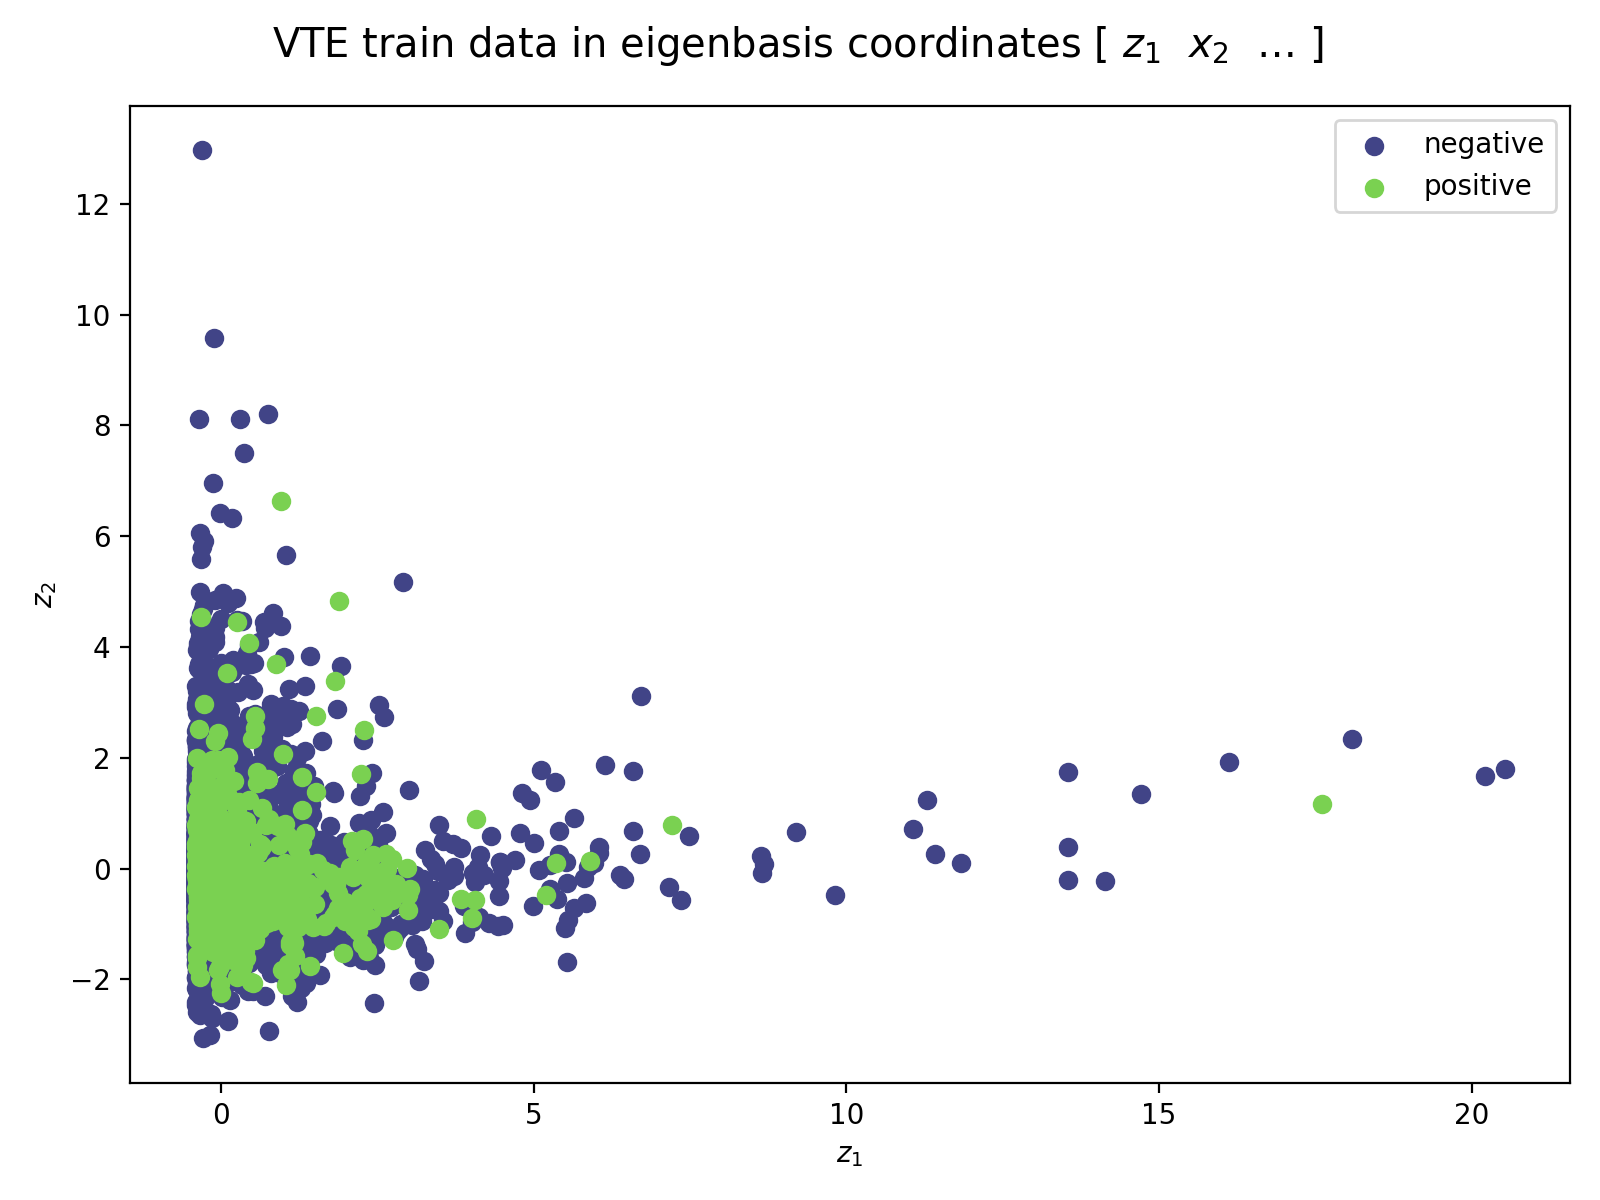
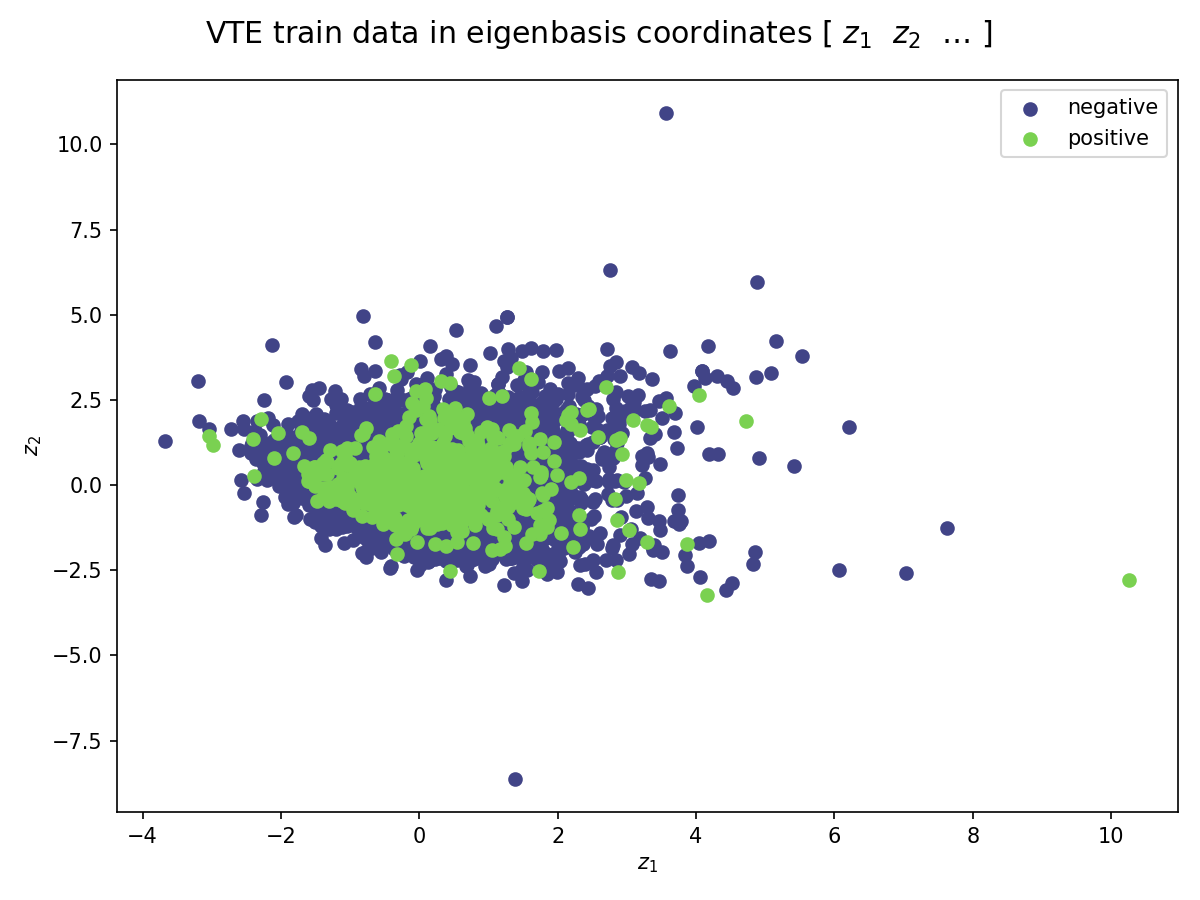
fixed egregious error in decomposition.py; you ALWAYS want to scale data before doing PCA + updated PCA results graphs in mtml/modeling/results

diff --git a/mtml/modeling/vte/decomposition.py b/mtml/modeling/vte/decomposition.py
@@ -12,6 +12,7 @@ import matplotlib.pyplot as plt
 import numpy as np
 from sklearn.decomposition import PCA
 from sklearn.feature_selection import SelectKBest
+from sklearn.preprocessing import StandardScaler
 
 # pylint: disable=relative-beyond-top-level
 from .. import BASE_RESULTS_DIR
@@ -68,18 +69,28 @@ def whitened_pca(*, report = False, plotting_dir = BASE_RESULTS_DIR + "",
     # first fit so we can get feature mask using get_support
     skbest.fit(X_train, y_train)
     col_mask = skbest.get_support()
-    # get reduced X_train by selecting only the 7 selected columns
-    X_train_red = X_train[:, col_mask]
+    # get reduced X_train and X_test by selecting only the 7 selected columns
+    X_train_red, X_test_red = X_train[:, col_mask], X_test[:, col_mask]
     # names of the 7 selected columns; order by descending AUC score
     kbest_cols = np.array(VTE_CONT_INPUT_COLS)[col_mask][
         np.flip(np.argsort(skbest.scores_[col_mask]))
     ]
+    # fit StandardScalers to training data and use them to normalize the data
+    # before feeding training data to PCA
+    scaler_full, scaler_red = StandardScaler(), StandardScaler()
+    scaler_full.fit(X_train), scaler_red.fit(X_train_red)
+    X_train, X_test = (
+        scaler_full.transform(X_train), scaler_full.transform(X_test)
+    )
+    X_train_red, X_test_red = (
+        scaler_red.transform(X_train_red), scaler_red.transform(X_test_red)
+    )
     # PCA for full continuous columns and PCA for 7 highest AUC columns. note
     # that we apply whitening transform since we'll need that for the models
     # that are scaling-sensitive (like regularized models)
     pca_full = PCA(whiten = True, random_state = random_seed)
     pca_red = PCA(whiten = True, random_state = random_seed)
-    # fit on the training data
+    # fit on the (standardized) training data
     pca_full.fit(X_train)
     pca_red.fit(X_train_red)
     # n_components needed to explain 95% variance for full and reduced data.
@@ -152,12 +163,12 @@ def whitened_pca(*, report = False, plotting_dir = BASE_RESULTS_DIR + "",
             fig.tight_layout()
         # save figure at dpi at plotting_dir/fig_fname
         fig.savefig(plotting_dir + "/" + fig_fname, dpi = dpi)
-    # return PCA objects and data so that they can be appropriately persisted/
-    # passed to another analysis/model fitting method
+    # return PCA objects and (standardized) data so that they can be
+    # appropriately persisted/passed to another analysis/model fitting method
     return {
         "pcas": (pca_full, pca_red), 
         "data_train": (X_train, X_train_red, y_train),
-        "data_test": (X_test, y_test)
+        "data_test": (X_test, X_test_red, y_test)
     }
 
 
@@ -168,8 +179,10 @@ def plot_pca_components_2d(*, plotting_dir = BASE_RESULTS_DIR + "",
                            tight_layout = True, plot_kwargs = None):
     """Calls :func:`whitened_pca` and plots scatter using top 2 eignvectors.
 
-    Only uses the data from the full training data matrix (uses all the columns
-    from ``VTE_CONT_INPUT_COLS``) when retrieving eigenspace coordinates.
+    Only uses the data from the (standardized) full training data matrix (uses
+    all the columns from ``VTE_CONT_INPUT_COLS``) when retrieving eigenspace
+    coordinates. Note that the data has already been centered and scaled to unit
+    variance during the PCA fitting process.
 
     The ``random_seed`` parameter is also used by :func:`whitened_pca` but all
     the plotting parameters only apply to the plot drawn by this function.
@@ -188,7 +201,8 @@ def plot_pca_components_2d(*, plotting_dir = BASE_RESULTS_DIR + "",
         plot_kwargs = {}
     # get results from whitened_pca (doesn't generate plots)
     pca_res = whitened_pca(random_seed = random_seed, plotting_dir = None)
-    # get full training data and PCA object fitted on them
+    # get full training data and PCA object fitted on them. note that this data
+    # has already been standardized using StandardScaler.
     X_train, _, y_train = pca_res["data_train"]
     pca = pca_res["pcas"][0]
     # transform X_train and retrieve eigenbasis data coordinates
@@ -210,7 +224,7 @@ def plot_pca_components_2d(*, plotting_dir = BASE_RESULTS_DIR + "",
     ax.set_ylabel(r"$ z_2 $")
     ax.legend()
     fig.suptitle(
-        r"VTE train data in eigenbasis coordinates $ [ \ z_1 \ \ x_2 "
+        r"VTE train data in eigenbasis coordinates $ [ \ z_1 \ \ z_2 "
         r"\ \ \ldots \ ] $ ", size = "x-large"
     )
     # if tight_layout is True, call tight_layout
